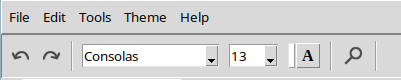
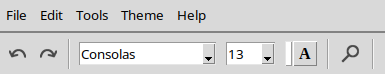
docs: improve formatting and consistency in README features section

diff --git a/README.md b/README.md
@@ -8,34 +8,34 @@ Quick info: All image assets in this application are made by myself.
 
 ## Feature include:
 
-### File:
+### - File
 - writing a text file
 - save your file
 - open a text file
 - create a new file 
 
-### Edit:
+### - Edit
 - copy
 - paste
 - cut
 - select all
 
-### Tools:
+### - Tools
 - document information
 <img src="prev_img/doc_info.png" width=40%/>
 
 - time and date (print out current time and date)
 
 - Ascii art library
-<img src="prev_img/ascii_lib.png" width=60%/>
+<img src="prev_img/ascii_lib.png" width=70%/>
 
-### Theme:
+### - Theme
 <img src="prev_img/theme.png"/>
 
-### Help:
+### - Help
 <img src="prev_img/about.png" width=40%/>
 
-### Others:
+### - Others
 <img src="prev_img/other.png"/>
 
 - undo and redo